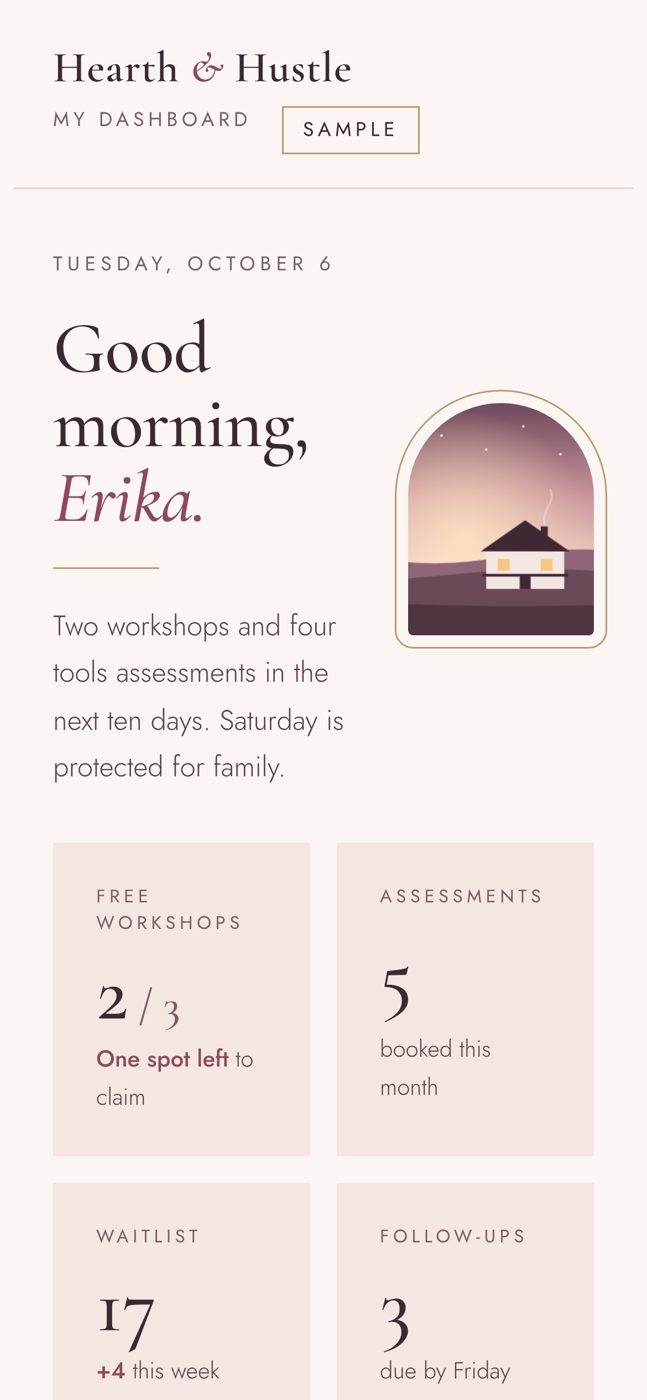
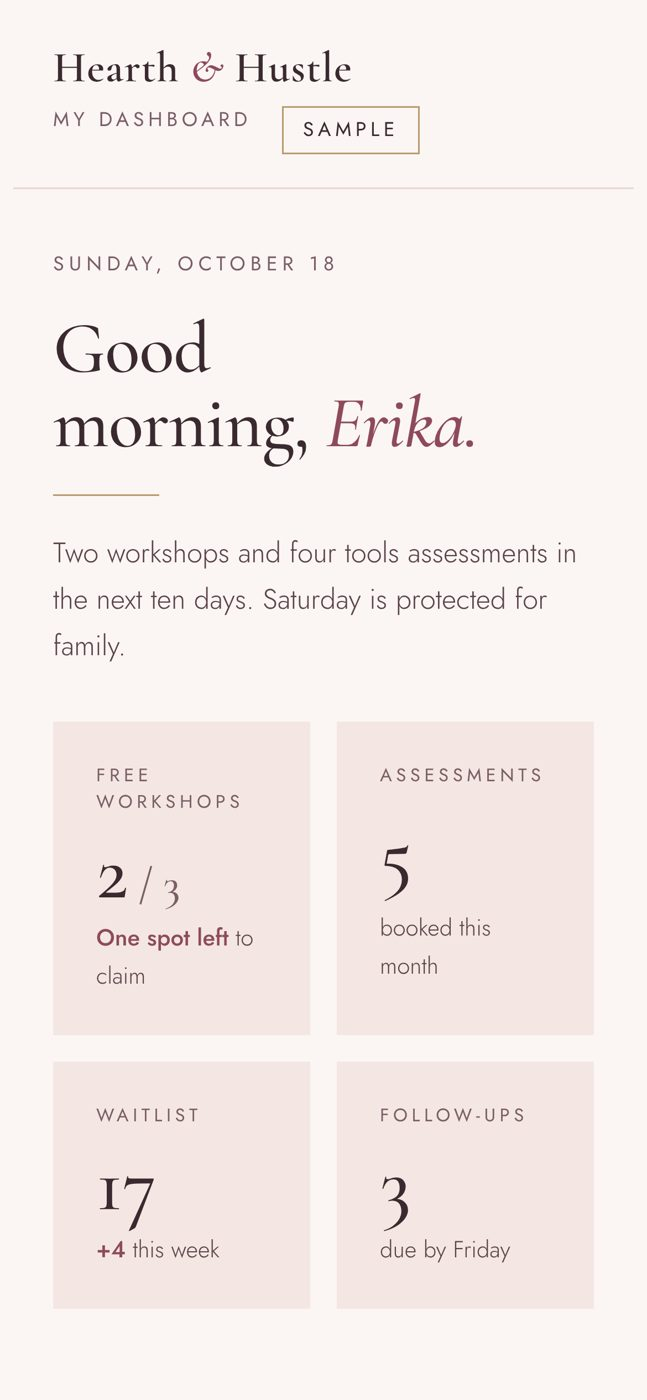
Replace hero arch with crest in a gold circle; refresh dashboard screenshots
Claude-Session: https://claude.ai/code/session_01J25DAuTszQJQbg7GXkQpny

diff --git a/index.html b/index.html
@@ -64,15 +64,15 @@ header{ position:sticky; top:0; z-index:10; background:rgba(251,246,243,.94); ba
 .hero h1{ font-size:clamp(44px,7vw,84px); letter-spacing:-.5px; }
 .hero .lead{ font-size:20px; max-width:560px; margin:0 0 34px; }
 .hero .actions{ display:flex; flex-wrap:wrap; gap:14px; }
-.hero-art{ position:relative; }
-.hero-art .frame{ border:1px solid var(--gold); border-radius:220px 220px 6px 6px; padding:14px; }
-.hero-art .frame-inner{ border-radius:208px 208px 2px 2px; overflow:hidden; background:var(--plum-deep);
-  aspect-ratio:4/5; display:flex; align-items:center; justify-content:center; }
+.hero-art{ position:relative; max-width:440px; width:100%; justify-self:center; }
+.hero-art .frame{ border:1px solid var(--gold); border-radius:50%; padding:14px; }
+.hero-art .frame-inner{ border-radius:50%; overflow:hidden; background:var(--plum-deep); outline:1px solid var(--gold); outline-offset:-10px;
+  aspect-ratio:1/1; display:flex; align-items:center; justify-content:center; }
 .hero-art .frame-inner img{ width:62%; height:auto; }
 .hero-art .frame-inner .fallback{ font-family:var(--font-display); color:var(--on-deep); font-size:64px; font-weight:500; }
 .hero-art .frame-inner .fallback em{ color:var(--gold); }
-.hero-tag{ position:absolute; left:-24px; bottom:48px; background:var(--cream); border:1px solid var(--rule-strong);
-  padding:16px 22px; max-width:250px; font-size:15px; line-height:1.45; box-shadow:0 10px 30px rgba(74,46,58,.08); }
+.hero-tag{ position:relative; margin:-34px auto 0; text-align:center; background:var(--cream); border:1px solid var(--rule-strong);
+  padding:16px 22px; max-width:270px; font-size:15px; line-height:1.45; box-shadow:0 10px 30px rgba(74,46,58,.08); }
 .hero-tag b{ display:block; font-family:var(--font-display); font-style:italic; font-weight:600; font-size:22px; color:var(--accent); }
 
 /* pillars band */
@@ -148,7 +148,6 @@ footer{ background:var(--plum-deep); color:var(--on-deep-soft); padding:56px 0 4
   .hero{ padding:56px 0 72px; }
   .hero-grid,.about-grid,.contact-grid{ grid-template-columns:1fr; gap:48px; }
   .hero-art{ max-width:300px; margin:0 auto; width:100%; }
-  .hero-tag{ left:0; }
   .band-grid,.steps,.slides{ grid-template-columns:1fr; }
   .svc-grid{ grid-template-columns:1fr; }
   .dash{ grid-template-columns:1fr; }
